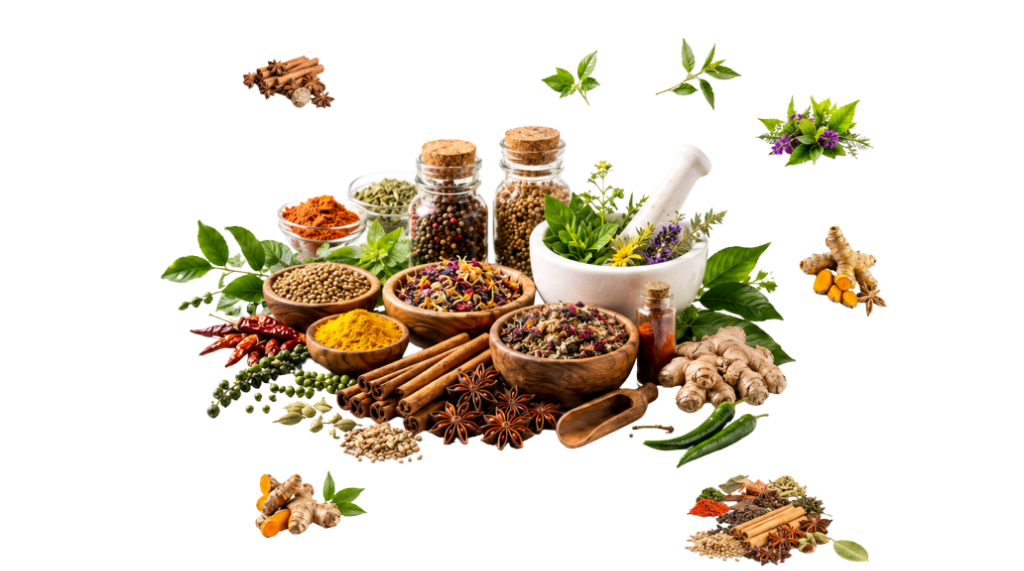
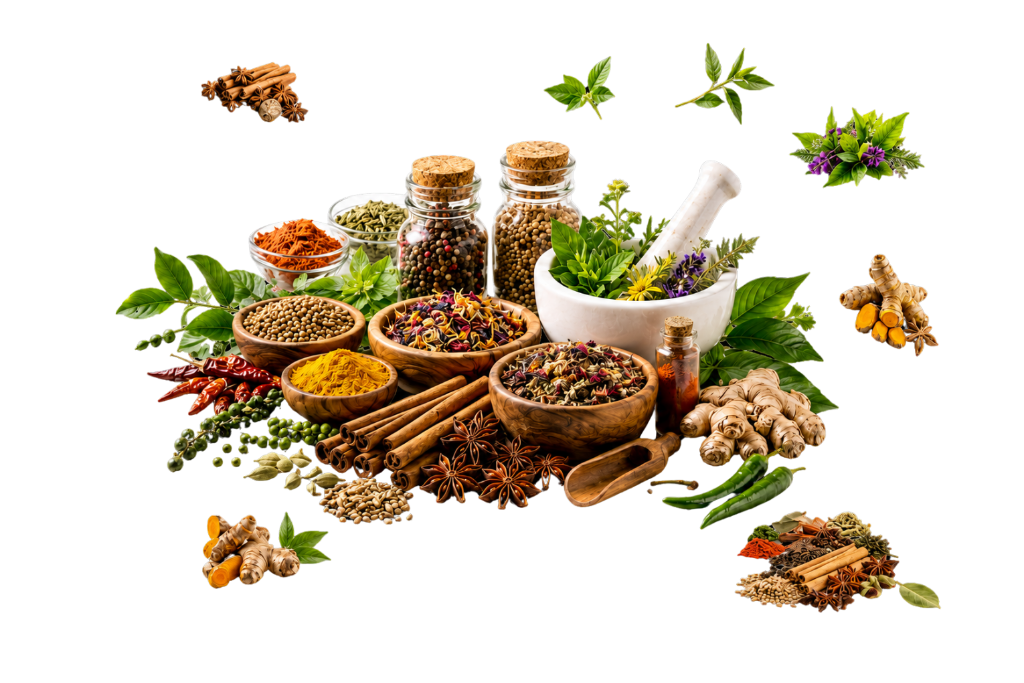
Update project

diff --git a/frontend/src/pages/HomePage.jsx b/frontend/src/pages/HomePage.jsx
@@ -30,10 +30,28 @@ export default function HomePage({ onOpenQuoteModal }) {
       })
       .catch(() => {});
 
-    // Fetch featured products
-    fetch('/api/products?featured=true')
+    // Fetch products and pick 1 from each of the 4 main categories
+    fetch('/api/products')
       .then(res => res.json())
-      .then(data => setFeaturedProducts(data))
+      .then(data => {
+        const targetCategories = ['herbal-leaves', 'herbal-flowers', 'tea', 'spices'];
+        const selectedProducts = [];
+        
+        targetCategories.forEach(catSlug => {
+          const product = data.find(p => p.category_slug === catSlug);
+          if (product) {
+            selectedProducts.push(product);
+          }
+        });
+        
+        // Fill up to 4 if any categories are empty
+        if (selectedProducts.length < 4) {
+          const others = data.filter(p => !selectedProducts.find(sp => sp.id === p.id));
+          selectedProducts.push(...others.slice(0, 4 - selectedProducts.length));
+        }
+        
+        setFeaturedProducts(selectedProducts);
+      })
       .catch(() => {});
   }, []);
 
@@ -67,13 +85,13 @@ export default function HomePage({ onOpenQuoteModal }) {
   };
 
   return (
-    <div className="space-y-20 pb-16">
+    <div className="space-y-12 pb-10 -mt-2">
       
       {/* 2. Hero Section */}
-      <section className="relative overflow-hidden pt-2 pb-8 md:pt-4 md:pb-16 bg-gradient-to-b from-cefi-cream via-cefi-cream to-white">
+      <section className="relative overflow-hidden pt-0 pb-6 md:pt-0 md:pb-10 bg-gradient-to-b from-cefi-cream via-cefi-cream to-white">
         
         {/* Faint botanical leaf watermark - left side */}
-        <div className="absolute left-0 bottom-0 w-72 h-auto opacity-80 pointer-events-none select-none z-0" aria-hidden="true">
+        <div className="absolute left-0 bottom-0 w-[480px] h-auto opacity-80 pointer-events-none select-none z-0" aria-hidden="true">
           <img src="/images/leaf-watermark.png" alt="" className="w-full h-full object-contain object-bottom-left" />
         </div>
 
@@ -101,13 +119,7 @@ export default function HomePage({ onOpenQuoteModal }) {
                 <span className="text-cefi-green italic font-normal">Grown for the World.</span>
               </h1>
 
-              {/* Golden divider with leaf */}
-              <div className="flex items-center space-x-3">
-                <div className="h-px w-12 bg-cefi-gold"></div>
-                <svg className="w-5 h-5 text-cefi-gold" fill="currentColor" viewBox="0 0 20 20">
-                  <path d="M10 2C6 2 3 6 3 10c0 3 2 5.5 4.5 6.5L10 18l2.5-1.5C15 15.5 17 13 17 10c0-4-3-8-7-8z"/>
-                </svg>
-              </div>
+
 
               <p className="text-base sm:text-lg text-cefi-earth/80 max-w-xl font-sans leading-relaxed">
                 Premium Sri Lankan tea, authentic True Cinnamon, rare spices, sun-dried tropical fruits, and organic agricultural produce processed and exported under world-class quality standards.
@@ -128,23 +140,17 @@ export default function HomePage({ onOpenQuoteModal }) {
               {/* Quick Trust Statistics with icons */}
               <div className="pt-6 grid grid-cols-3 gap-4 border-t border-cefi-cream-dark/60 max-w-lg">
                 <div className="flex flex-col items-start space-y-1">
-                  <div className="w-8 h-8 rounded-full border border-cefi-green/30 flex items-center justify-center mb-1">
-                    <svg className="w-4 h-4 text-cefi-green" fill="currentColor" viewBox="0 0 20 20"><path d="M10 2C6 2 3 6 3 10c0 3 2 5.5 4.5 6.5L10 18l2.5-1.5C15 15.5 17 13 17 10c0-4-3-8-7-8z"/></svg>
-                  </div>
+
                   <span className="font-serif font-bold text-2xl text-cefi-green">100%</span>
                   <span className="text-xs text-gray-500 font-medium">Pure Ceylon Origin</span>
                 </div>
                 <div className="flex flex-col items-start space-y-1">
-                  <div className="w-8 h-8 rounded-full border border-cefi-green/30 flex items-center justify-center mb-1">
-                    <svg className="w-4 h-4 text-cefi-green" fill="none" stroke="currentColor" strokeWidth="2" viewBox="0 0 24 24"><circle cx="12" cy="12" r="10"/><path d="M2 12h20M12 2a15 15 0 010 20M12 2a15 15 0 000 20"/></svg>
-                  </div>
+
                   <span className="font-serif font-bold text-2xl text-cefi-green">40+</span>
                   <span className="text-xs text-gray-500 font-medium">Global Markets</span>
                 </div>
                 <div className="flex flex-col items-start space-y-1">
-                  <div className="w-8 h-8 rounded-full border border-cefi-green/30 flex items-center justify-center mb-1">
-                    <svg className="w-4 h-4 text-cefi-green" fill="none" stroke="currentColor" strokeWidth="2" viewBox="0 0 24 24"><path d="M17 21v-2a4 4 0 00-4-4H5a4 4 0 00-4 4v2"/><circle cx="9" cy="7" r="4"/><path d="M23 21v-2a4 4 0 00-3-3.87M16 3.13a4 4 0 010 7.75"/></svg>
-                  </div>
+
                   <span className="font-serif font-bold text-2xl text-cefi-green">300+</span>
                   <span className="text-xs text-gray-500 font-medium">Farmer Outgrowers</span>
                 </div>
@@ -153,7 +159,7 @@ export default function HomePage({ onOpenQuoteModal }) {
             </div>
 
             {/* Right Column: Hero Graphic Composition */}
-            <div className="lg:col-span-7 relative flex items-center justify-center h-[560px] sm:h-[720px] lg:h-[820px]">
+            <div className="lg:col-span-7 relative flex items-center justify-center h-[620px] sm:h-[800px] lg:h-[920px]">
               
               {/* Main Hero Feature Image */}
               <div className="relative w-full h-full z-10 flex justify-center items-center overflow-visible">
@@ -161,7 +167,7 @@ export default function HomePage({ onOpenQuoteModal }) {
                   src="/images/hero-image.png"
                   alt="Ceylon Spices & Natural Products"
                   className="w-full h-full object-contain drop-shadow-2xl hover:scale-105 transition-transform duration-700"
-                  style={{ maxHeight: '820px', transform: 'scale(1.22)' }}
+                  style={{ maxHeight: '920px', transform: 'scale(1.38)' }}
                 />
               </div>
 
@@ -172,7 +178,7 @@ export default function HomePage({ onOpenQuoteModal }) {
       </section>
 
       {/* 2.5 Features / Trust Badges */}
-      <section className="max-w-7xl mx-auto px-4 sm:px-6 lg:px-8 -mt-10 relative z-30">
+      <section className="max-w-7xl mx-auto px-4 sm:px-6 lg:px-8 relative z-30">
         <div className="bg-white rounded-2xl shadow-sm border border-gray-100 p-4 sm:p-6 flex flex-col md:flex-row items-center justify-between gap-4 divide-y md:divide-y-0 md:divide-x divide-gray-200">
           
           <div className="group flex items-center space-x-4 px-4 w-full md:w-1/4 pt-4 md:pt-0 first:pt-0 cursor-default">
@@ -220,7 +226,7 @@ export default function HomePage({ onOpenQuoteModal }) {
 
       {/* 3. "Explore our Collection" — Category Cards Row */}
       <Reveal as="section" className="max-w-7xl mx-auto px-4 sm:px-6 lg:px-8">
-        <div className="text-center space-y-2 mb-10">
+        <div className="text-center space-y-2 mb-8">
           <h2 className="font-serif font-bold text-3xl sm:text-4xl text-cefi-earth">
             Explore our Collection
           </h2>
@@ -269,7 +275,7 @@ export default function HomePage({ onOpenQuoteModal }) {
 
       {/* Featured Products Showcase */}
       <Reveal as="section" className="max-w-7xl mx-auto px-4 sm:px-6 lg:px-8">
-        <div className="flex flex-col md:flex-row items-start md:items-end justify-between mb-8 pb-4 border-b border-gray-200">
+        <div className="flex flex-col md:flex-row items-start md:items-end justify-between mb-6 pb-4 border-b border-gray-200">
           <div>
             <span className="text-xs font-bold uppercase tracking-wider text-cefi-gold">Handpicked Harvests</span>
             <h2 className="font-serif font-bold text-3xl text-cefi-earth mt-1">Featured Ceylon Products</h2>
@@ -290,7 +296,7 @@ export default function HomePage({ onOpenQuoteModal }) {
       </Reveal>
 
       {/* 4. "Our Story" Section */}
-      <section className="bg-cefi-cream py-16 border-y border-cefi-cream-dark/60">
+      <section className="bg-cefi-cream py-12 border-y border-cefi-cream-dark/60">
         <Reveal as="div" className="max-w-7xl mx-auto px-4 sm:px-6 lg:px-8">
           <div className="grid grid-cols-1 lg:grid-cols-2 gap-12 items-center">
             
@@ -355,7 +361,7 @@ export default function HomePage({ onOpenQuoteModal }) {
 
       {/* 5. Why Choose CEFI Section */}
       <Reveal as="section" className="max-w-7xl mx-auto px-4 sm:px-6 lg:px-8">
-        <div className="text-center max-w-2xl mx-auto mb-12">
+        <div className="text-center max-w-2xl mx-auto mb-8">
           <span className="text-xs font-bold uppercase tracking-wider text-cefi-gold">The CEFI Advantage</span>
           <h2 className="font-serif font-bold text-3xl text-cefi-earth mt-1">Why Choose CEFI?</h2>
         </div>
@@ -407,7 +413,7 @@ export default function HomePage({ onOpenQuoteModal }) {
 
       {/* 6. Newsletter / "Join the List" Band (Matching Reference Image 3) */}
       <Reveal as="section" className="max-w-7xl mx-auto px-4 sm:px-6 lg:px-8">
-        <div className="bg-cefi-earth rounded-3xl p-8 sm:p-12 text-white relative overflow-hidden shadow-2xl border border-cefi-gold/20">
+        <div className="bg-cefi-earth rounded-3xl p-8 sm:p-10 text-white relative overflow-hidden shadow-2xl border border-cefi-gold/20">
 
           <div className="grid grid-cols-1 lg:grid-cols-12 gap-8 items-center relative z-10">
 

diff --git a/frontend/src/components/Header.jsx b/frontend/src/components/Header.jsx
@@ -43,8 +43,8 @@ export default function Header({ onOpenQuoteModal }) {
   return (
     <>
       {/* Top Banner (Export & Quality notice) */}
-      <div className="bg-cefi-green-dark text-emerald-100 text-xs py-1.5 px-4 text-center border-b border-emerald-900 flex items-center justify-center space-x-2">
-        <Sparkles className="w-3.5 h-3.5 text-cefi-gold animate-pulse" />
+      <div className="bg-cefi-green-dark text-emerald-100 text-xs py-1 px-4 text-center border-b border-emerald-900 flex items-center justify-center space-x-2">
+        <Sparkles className="w-3 h-3 text-cefi-gold animate-pulse" />
         <span>Rooted in Ceylon, Grown for the World — Premium Wholesale & Retail Export Dispatch</span>
         <button 
           onClick={onOpenQuoteModal} 
@@ -57,8 +57,8 @@ export default function Header({ onOpenQuoteModal }) {
       {/* Main Sticky Header */}
       <header className={`sticky top-0 z-40 transition-all duration-300 ${
         isScrolled 
-          ? 'bg-white/95 backdrop-blur-md shadow-md py-3 border-b border-gray-100' 
-          : 'bg-cefi-cream/90 backdrop-blur-sm py-4 border-b border-cefi-cream-dark'
+          ? 'bg-white/95 backdrop-blur-md shadow-md py-1 border-b border-gray-100' 
+          : 'bg-cefi-cream/90 backdrop-blur-sm py-2 border-b border-cefi-cream-dark'
       }`}>
         <div className="max-w-7xl mx-auto px-4 sm:px-6 lg:px-8 flex items-center justify-between">
           
@@ -79,7 +79,7 @@ export default function Header({ onOpenQuoteModal }) {
           <nav className="hidden md:flex items-center space-x-8 text-sm font-medium text-cefi-earth">
             <NavLink 
               to="/" 
-              className={({ isActive }) => isActive ? 'text-cefi-green font-bold border-b-2 border-cefi-gold pb-0.5' : 'hover:text-cefi-green transition-colors'}
+              className={({ isActive }) => isActive ? 'text-cefi-green font-bold' : 'hover:text-cefi-green transition-colors'}
             >
               Home
             </NavLink>

diff --git a/backend/fix_categories.js b/backend/fix_categories.js
@@ -1,0 +1,50 @@
+const { createClient } = require('@supabase/supabase-js');
+require('dotenv').config({ path: 'backend/.env' });
+const supabase = createClient(process.env.SUPABASE_URL, process.env.SUPABASE_ANON_KEY);
+
+async function fixCategories() {
+  // Fetch all products with mismatched category_name vs category_slug
+  const { data, error } = await supabase
+    .from('products')
+    .select('id, name, category_slug, category_name');
+  
+  if (error) { console.log('Error fetching:', error.message); return; }
+
+  // Define the correct name for each slug
+  const slugToName = {
+    'fruits': 'Fruits',
+    'herbal-leaves': 'Herbal Leaves',
+    'herbal-flowers': 'Herbal Flowers',
+    'tea': 'Tea',
+    'spices': 'Spices',
+    'vegetables': 'Vegetables & Fruits'
+  };
+
+  let fixCount = 0;
+  for (const product of data) {
+    const expectedName = slugToName[product.category_slug];
+    if (expectedName && product.category_name !== expectedName) {
+      console.log(`MISMATCH: "${product.name}" has category_name="${product.category_name}" but should be "${expectedName}"`);
+      
+      const { error: updateError } = await supabase
+        .from('products')
+        .update({ category_name: expectedName })
+        .eq('id', product.id);
+      
+      if (updateError) {
+        console.log(`  ERROR fixing: ${updateError.message}`);
+      } else {
+        console.log(`  FIXED!`);
+        fixCount++;
+      }
+    }
+  }
+  
+  if (fixCount === 0) {
+    console.log('No mismatches found - all category names are correct!');
+  } else {
+    console.log(`\nFixed ${fixCount} products!`);
+  }
+}
+
+fixCategories();

diff --git a/backend/update_flower_image.js b/backend/update_flower_image.js
@@ -1,0 +1,22 @@
+const fs = require('fs');
+require('dotenv').config({ path: 'backend/.env' });
+const { createClient } = require('@supabase/supabase-js');
+
+async function updateFlowerImage() {
+  const supabase = createClient(process.env.SUPABASE_URL, process.env.SUPABASE_ANON_KEY);
+  await supabase.from('categories').update({ image_url: '/images/cat-herbal-flowers.png' }).eq('slug', 'herbal-flowers');
+  
+  let mockPath = 'backend/mockData.js';
+  let mockContent = fs.readFileSync(mockPath, 'utf8');
+  mockContent = mockContent.replace(/slug:\s*"herbal-flowers",\s*description:\s*"Dried herbal flowers used for infusions and natural remedies.",\s*image_url:\s*"[^"]+"/, 'slug: "herbal-flowers",\n    description: "Dried herbal flowers used for infusions and natural remedies.",\n    image_url: "/images/cat-herbal-flowers.png"');
+  fs.writeFileSync(mockPath, mockContent);
+
+  let dbPath = 'backend/localDB.json';
+  let dbContent = JSON.parse(fs.readFileSync(dbPath, 'utf8'));
+  let flowerCat = dbContent.categories.find(c => c.slug === 'herbal-flowers');
+  if (flowerCat) {
+    flowerCat.image_url = '/images/cat-herbal-flowers.png';
+    fs.writeFileSync(dbPath, JSON.stringify(dbContent, null, 2));
+  }
+}
+updateFlowerImage().then(() => console.log('Updated db and files'));

diff --git a/backend/process_herbal_flowers.js b/backend/process_herbal_flowers.js
@@ -1,0 +1,32 @@
+const { Jimp } = require('jimp');
+const path = require('path');
+
+const inputFile = 'C:\\Users\\LENOVO\\.gemini\\antigravity-ide\\brain\\b82fb566-6fab-42fd-9bf0-515dcd9c6592\\media__1785678858496.jpg';
+const outputFile = 'C:\\Users\\LENOVO\\OneDrive\\Desktop\\CEFI Ecommerce\\frontend\\public\\cat-herbal-flowers.png';
+
+async function processImage() {
+  try {
+    const image = await Jimp.read(inputFile);
+    
+    // Remove black background
+    image.scan(0, 0, image.bitmap.width, image.bitmap.height, function(x, y, idx) {
+      const red = this.bitmap.data[idx + 0];
+      const green = this.bitmap.data[idx + 1];
+      const blue = this.bitmap.data[idx + 2];
+      
+      // If the pixel is very dark (close to black), make it transparent
+      if (red < 15 && green < 15 && blue < 15) {
+        this.bitmap.data[idx + 3] = 0; // Set alpha to 0
+      }
+    });
+
+    image.write(outputFile, (err) => {
+      if (err) throw err;
+      console.log('Image processed and saved to:', outputFile);
+    });
+  } catch (error) {
+    console.error('Error processing image:', error);
+  }
+}
+
+processImage();

diff --git a/backend/move_leaves.js b/backend/move_leaves.js
@@ -1,0 +1,29 @@
+const { createClient } = require('@supabase/supabase-js');
+require('dotenv').config({ path: 'backend/.env' });
+const supabase = createClient(process.env.SUPABASE_URL, process.env.SUPABASE_ANON_KEY);
+
+// These 3 leaf products need to move from "fruits" to "herbal-leaves"
+const leafSlugs = [
+  'premium-dried-guava-psidium-guajava-leaves',
+  'premium-dried-soursop-annona-muricata-leaves',
+  'premium-dried-jackfruit-artocarpus-heterophyllus-leaves',
+];
+
+async function moveLeaves() {
+  for (const slug of leafSlugs) {
+    const { data, error } = await supabase
+      .from('products')
+      .update({ category_slug: 'herbal-leaves', category_name: 'Herbal Leaves' })
+      .eq('slug', slug)
+      .select('name');
+
+    if (error) {
+      console.log(`ERROR: ${slug} -> ${error.message}`);
+    } else {
+      console.log(`MOVED: "${data[0]?.name}" -> Herbal Leaves`);
+    }
+  }
+  console.log('\nDone!');
+}
+
+moveLeaves();

diff --git a/backend/check_products.js b/backend/check_products.js
@@ -1,0 +1,10 @@
+const { createClient } = require('@supabase/supabase-js');
+require('dotenv').config({ path: 'backend/.env' });
+const supabase = createClient(process.env.SUPABASE_URL, process.env.SUPABASE_ANON_KEY);
+
+async function check() {
+  const { data, error } = await supabase.from('products').select('id, name, category_slug, slug').order('name');
+  if (error) { console.log('Error:', error.message); return; }
+  console.log(JSON.stringify(data.map(p => ({ id: p.id, name: p.name, cat: p.category_slug, slug: p.slug })), null, 2));
+}
+check();
